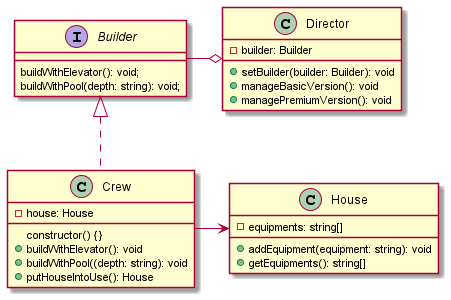
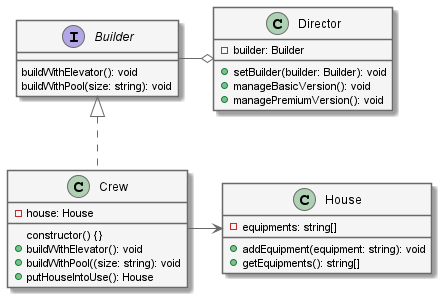
Update README

diff --git a/README.md b/README.md
@@ -66,13 +66,16 @@ director.setBuilder(crew);
 
 director.manageBasicVersion();
 const basicHouse = crew.putHouseIntoUse();
+console.log(basicHouse.getEquipments()); // ["elevator"]
 
 director.managePremiumVersion();
 const premiumHouse = crew.putHouseIntoUse();
+console.log(premiumHouse.getEquipments()); // ["elevator", "big pool", "small pool"]
 
-crew.buildWithPool('5 feet');
+crew.buildWithPool('medium');
 crew.buildWithElevator();
 const customHouse = crew.putHouseIntoUse();
+console.log(customHouse.getEquipments()); // ["medium pool", "elevator"]
 ```
 
 ## <a name="chain-of-responsibility">Chain of responsibility</a> [behavioral] [&#8657;](#list)
@@ -121,12 +124,15 @@ const customHouse = crew.putHouseIntoUse();
 ```ts
 const woman = new Woman();
 const withCasualClothes = woman.wear();
+console.warn(withCasualClothes); // "wear casual clothes"
 
 const jacket = new Jacket(woman);
 const withJacket = jacket.wear();
+console.warn(withJacket); // "wear casual clothes, jacket"
 
 const scarf = new Scarf(jacket);
 const withScarf = scarf.wear();
+console.warn(withScarf); // "wear casual clothes, jacket, scarf"
 ```
 
 ## <a name="facade">Facade</a> [structural] [&#8657;](#list)
@@ -272,9 +278,11 @@ const withScarf = scarf.wear();
 ```ts
 const team = new Team(new DefensiveStrategy());
 const defensiveLineup = team.prepareLineup();
+console.error(defensiveLineup); // ["Tia", "Rocket"]
 
 team.setStrategy(new OffensiveStrategy());
 const offensiveLineup = team.prepareLineup();
+console.error(offensiveLineup); // ["Ahito", "Rocket"]
 ```
 
 ## <a name="template-method">Template method</a> [behavioral] [&#8657;](#list)
